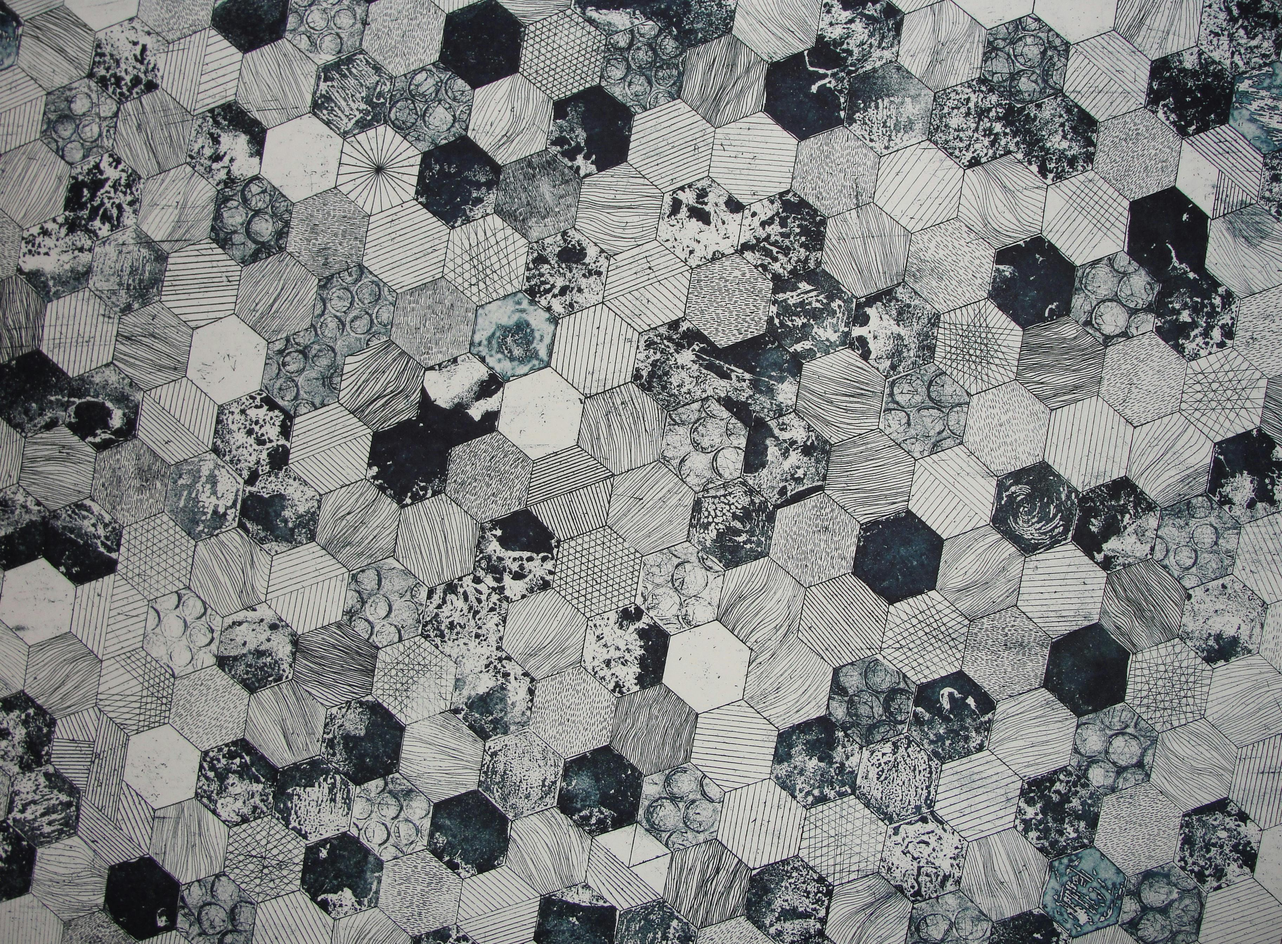
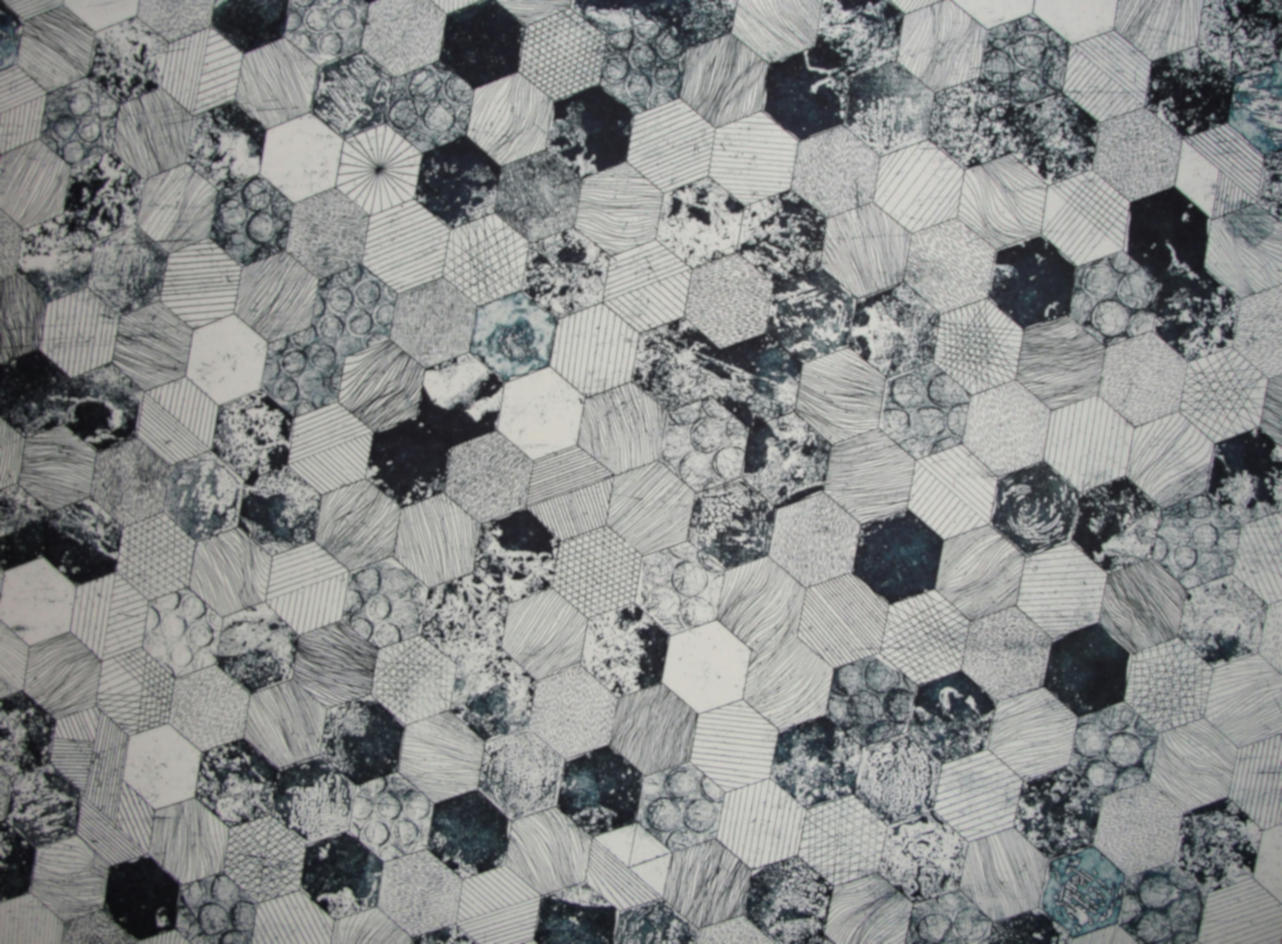
Added slight blur to site background

diff --git a/src/components/Page/Home/Home.jsx b/src/components/Page/Home/Home.jsx
@@ -155,7 +155,7 @@ export default function Home() {
                 <br />
                 <p
                 className='px-4 pb-4'>
-                    Over the course of my life, I have learned to apply my abilities to a wide variety of situations. I began my journey as an artist in grade school, making pixel art in Microsoft Paint and lending designs to Game Maker projects. I also found a passion for pencil drawing. In high school, I was graciously gifted my first Intuos tablet, and I began to draw and paint digitally in Photoshop while taking art classes at school.<br/>
+                    Over the course of my life, I have learned to apply my abilities to a wide variety of situations. I began my journey as an artist in grade school, making pixel art in Microsoft Paint and lending designs to Game Maker projects. I also found a passion for pencil drawing. In high school, I was graciously gifted my first Intuos tablet, and I began to draw and paint digitally in Photoshop while taking art classes in school.<br/>
                     <br/>
                     I&apos;ve since used my design skills to provide illustrations and graphics for game design projects, websites (including this one!), YouTube videos, and more. I continue to share my artistic progress on <a href="https://www.instagram.com/the_decalzone/">Instagram</a> and on <Link to={{ pathname: "/art", }}>the Art page</Link>.
                 </p>
